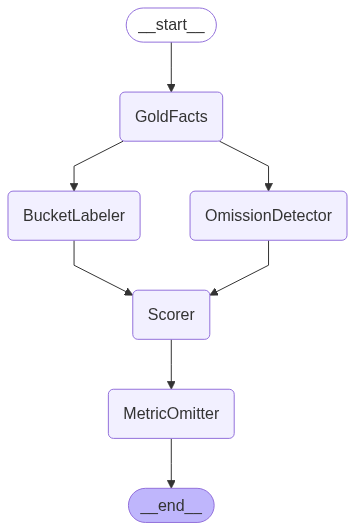
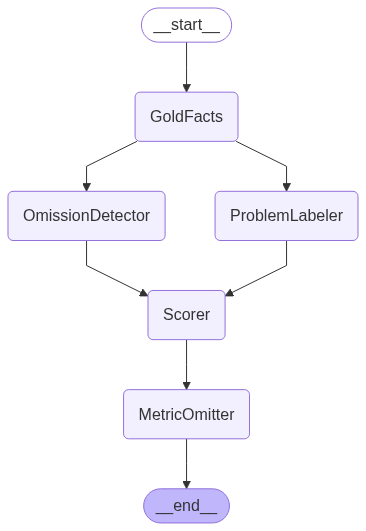
create problem labeler agent

diff --git a/pipeline/agents/problem_labeler.py b/pipeline/agents/problem_labeler.py
@@ -1,0 +1,150 @@
+# pipeline/agents/problem_labeler.py
+from __future__ import annotations
+
+import json
+import hashlib
+import uuid
+from typing import Any, Dict, List, Optional
+
+from pipeline.state import PipelineState, HPIFact, Problem
+from llm_utils import call_llm
+
+_MODEL = "gpt-4o-mini"
+
+_PROMPT = """
+You are an expert clinical scribe. You will receive:
+1) The diarized clinical transcript (Clinician/Patient turns).
+2) A JSON array of HPI facts extracted from the transcript (id, code, polarity, value, evidence_span.text).
+
+Task:
+- Define a concise list of PROBLEMS (complaints/conditions) active in today's visit.
+- Then assign every fact to exactly one of those problems.
+
+Guidance:
+- Problem names should be short clinical phrases (e.g., "Left knee pain", "Migraine flare", "Cough/URI", "LE edema").
+- Merge OLDCARTS qualifiers (onset, severity, location, trajectory, aggravators, etc.) under the same problem.
+- Keep the problem set small and clinically meaningful.
+- Use active_today=true for problems discussed in today's assessment/plan.
+
+Return ONLY this JSON object shape (no prose):
+{{
+  "problems": [{{"name": "<short phrase>", "active_today": true|false}}, ...],
+  "assignments": [{{"fact_id": "<id from input>", "problem": "<exact problem name from problems>"}} , ...]
+}}
+
+Constraints:
+- Every input fact id must appear exactly once in assignments.
+- Each "problem" string in assignments MUST exactly match one of problems[].name.
+- If a fact is purely contextual but clearly belongs to a main complaint, still assign it to that complaint.
+
+=== TRANSCRIPT ===
+{transcript}
+
+=== HPI FACTS (JSON array) ===
+{facts_json}
+""".strip()
+
+
+def _llm_json_obj(model: str, prompt: str) -> Dict[str, Any]:
+    raw = call_llm(model, prompt)
+    try:
+        data = json.loads(raw)
+    except Exception:
+        # minimal recovery: slice between first '{' and last '}'
+        l = raw.find("{")
+        r = raw.rfind("}")
+        if l != -1 and r != -1 and r > l:
+            data = json.loads(raw[l : r + 1])
+        else:
+            raise
+    if not isinstance(data, dict):
+        raise RuntimeError("ProblemLabeler: LLM did not return a JSON object.")
+    return data
+
+
+def _stable_problem_id(run_id: Optional[str], name: str) -> str:
+    """
+    Stable UUIDv5 per (run_id, normalized name). Ensures id is reproducible within a run.
+    """
+    base = f"{(run_id or '').strip()}||{name.strip().lower()}"
+    sig = hashlib.md5(base.encode("utf-8")).hexdigest()
+    return uuid.uuid5(uuid.NAMESPACE_URL, sig).hex
+
+
+def problem_labeler(state: PipelineState) -> PipelineState:
+    """
+    1) Ask LLM to list problems and map each fact -> one problem.
+    2) Create Problem objects with stable per-run IDs.
+    3) Assign problem_id on every HPIFact.
+    4) Append problems to state.problems.
+    """
+    if not state.transcript_facts:
+        # Nothing to label; keep state unchanged.
+        return state
+
+    # Build a compact facts payload for the LLM
+    facts_payload = []
+    for f in state.transcript_facts:
+        facts_payload.append({
+            "id": f.id,
+            "code": f.code,
+            "polarity": f.polarity,
+            "value": f.value,
+            "evidence_span": {"text": getattr(f.evidence_span, "text", "") if f.evidence_span else ""},
+        })
+    prompt = _PROMPT.format(
+        transcript=state.transcript or "",
+        facts_json=json.dumps(facts_payload, ensure_ascii=False),
+    )
+    data = _llm_json_obj(_MODEL, prompt)
+    problems_in = data.get("problems") or []
+    assignments_in = data.get("assignments") or []
+
+    # 1) Build Problem objects, de-dup by name
+    name_to_problem: Dict[str, Problem] = {}
+    for p in problems_in:
+        name = (p.get("name") or "").strip()
+        if not name:
+            continue
+        active_today = bool(p.get("active_today", True))
+        pid = _stable_problem_id(state.run_id, name)
+        if name not in name_to_problem:
+            name_to_problem[name] = Problem(id=pid, name=name, active_today=active_today)
+
+    # If the model returned no problems, create a single fallback bucket
+    if not name_to_problem:
+        fallback_name = "General HPI problem"
+        name_to_problem[fallback_name] = Problem(
+            id=_stable_problem_id(state.run_id, fallback_name),
+            name=fallback_name,
+            active_today=True,
+        )
+
+    # 2) Build fact_id -> problem_name map from assignments
+    fact_to_pname: Dict[str, str] = {}
+    for a in assignments_in:
+        fid = a.get("fact_id")
+        pname = (a.get("problem") or "").strip()
+        if fid and pname:
+            fact_to_pname[fid] = pname
+
+    # 3) Ensure every fact is assigned; default to the first problem if missing
+    default_problem_name = next(iter(name_to_problem.keys()))
+    for f in state.transcript_facts:
+        pname = fact_to_pname.get(f.id, default_problem_name)
+        if pname not in name_to_problem:
+            # If LLM invented a new name in assignments, create it on the fly
+            name_to_problem[pname] = Problem(
+                id=_stable_problem_id(state.run_id, pname),
+                name=pname,
+                active_today=True,
+            )
+        f.problem_id = name_to_problem[pname].id
+
+    # 4) Merge Problems into state (avoid duplicates by id)
+    existing_ids = {p.id for p in state.problems}
+    new_problems = [p for p in name_to_problem.values() if p.id not in existing_ids]
+    print(new_problems)
+    state.problems.extend(new_problems)
+
+    return state

diff --git a/pipeline/agent_pipeline.py b/pipeline/agent_pipeline.py
@@ -8,8 +8,7 @@ import uuid
 
 from pipeline.state import PipelineState
 from langgraph.graph import StateGraph, START, END
-from dotenv import load_dotenv
-from pipeline.agents import (gold_fact_extract)
+from pipeline.agents import (gold_fact_extract, problem_labeler)
 
 
 def _add_parent_edges(g: StateGraph, parents, child: str) -> None:
@@ -25,9 +24,6 @@ def _add_parent_edges(g: StateGraph, parents, child: str) -> None:
     g.add_edge(parents, child)
 
 # --- Mock agent functions (no-ops) -----------------------------------
-def bucket_labeler(state: PipelineState) -> PipelineState:
-    return state
-
 def omission_detector(state: PipelineState) -> PipelineState:
     return state
 
@@ -45,8 +41,8 @@ def build_graph():
     g.add_edge(START, "GoldFacts")
     
     # ─── Independent branch C: gold facts → buckets
-    g.add_node("BucketLabeler",  bucket_labeler)
-    g.add_edge("GoldFacts",       "BucketLabeler")
+    g.add_node("ProblemLabeler",  problem_labeler)
+    g.add_edge("GoldFacts",       "ProblemLabeler")
 
     # ─── Omission detection ─────────────────────────────────
     g.add_node("OmissionDetector", omission_detector)
@@ -54,7 +50,7 @@ def build_graph():
 
     # ─── Scoring & emit ─────────────────────────────────────
     g.add_node("Scorer", omission_scorer)       # uses state.gold_facts + state.facts[…]
-    _add_parent_edges(g, ["OmissionDetector", "BucketLabeler"], "Scorer")
+    _add_parent_edges(g, ["OmissionDetector", "ProblemLabeler"], "Scorer")
     g.add_edge("Scorer", "MetricOmitter")
 
     g.add_node("MetricOmitter", metric_omitter)

diff --git a/pipeline/state.py b/pipeline/state.py
@@ -35,9 +35,10 @@ class HPIFact:
     code: str                       # e.g., "D2.ON-01"
     polarity: Literal["present", "denied", "uncertain"]
     value: str                      # normalized content (e.g., "onset: 7-10 days ago")
-    problem_id: Optional[str] = None  # assigned by BucketLabeler
+    problem_id: Optional[str] = None  # assigned by ProblemLabeler
     time_scope: Optional[Literal["acute", "chronic", "baseline", "changed"]] = None
     evidence_span: Optional[EvidenceSpan] = None
+
 
 @dataclass
 class Problem:

diff --git a/pipeline/agents/__init__.py b/pipeline/agents/__init__.py
@@ -1,1 +1,2 @@
 from .gold_fact_extract import gold_fact_extract
+from .problem_labeler import problem_labeler
